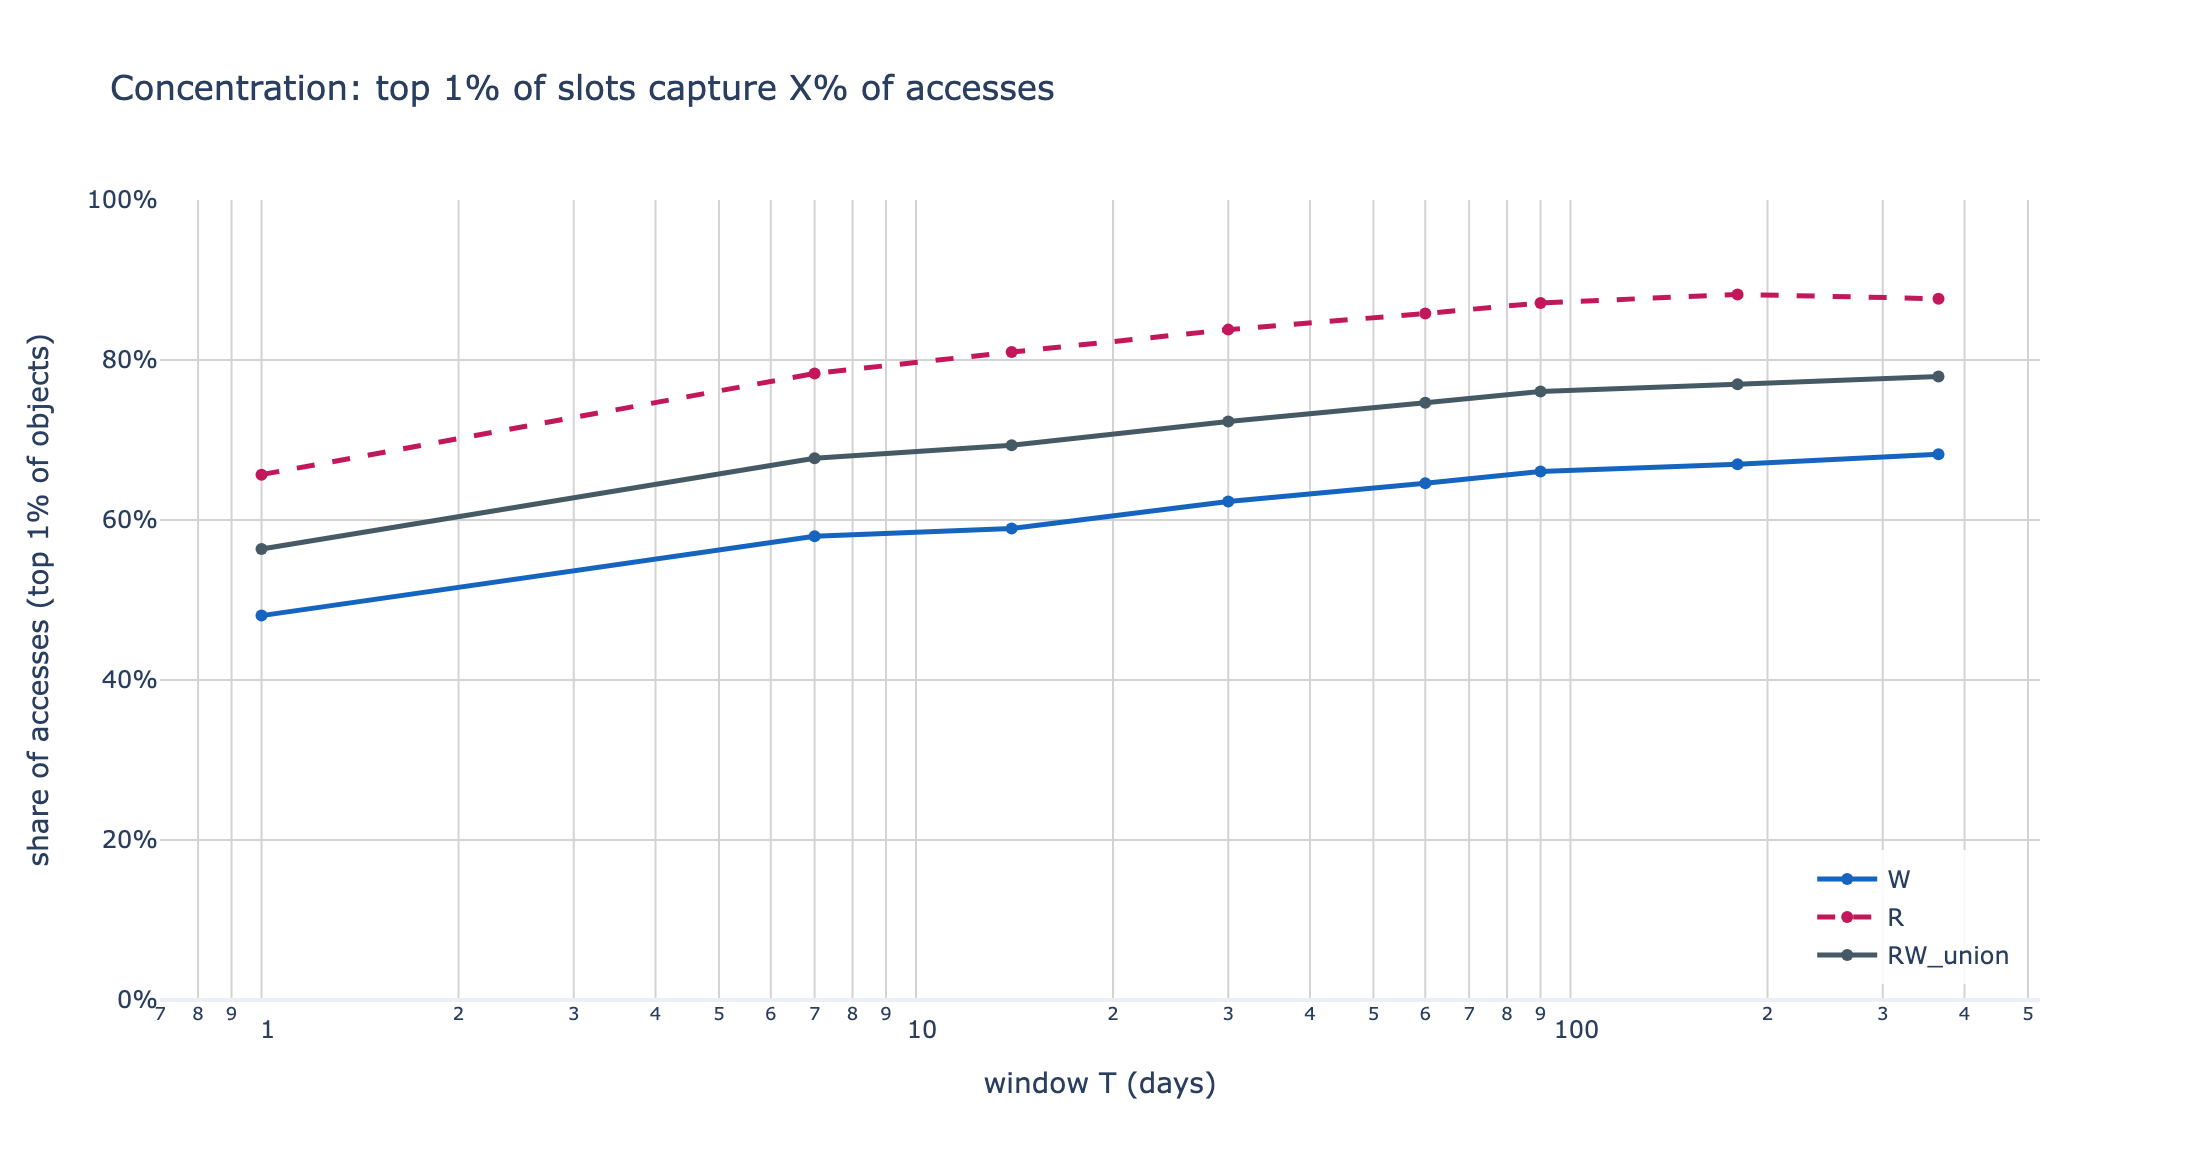
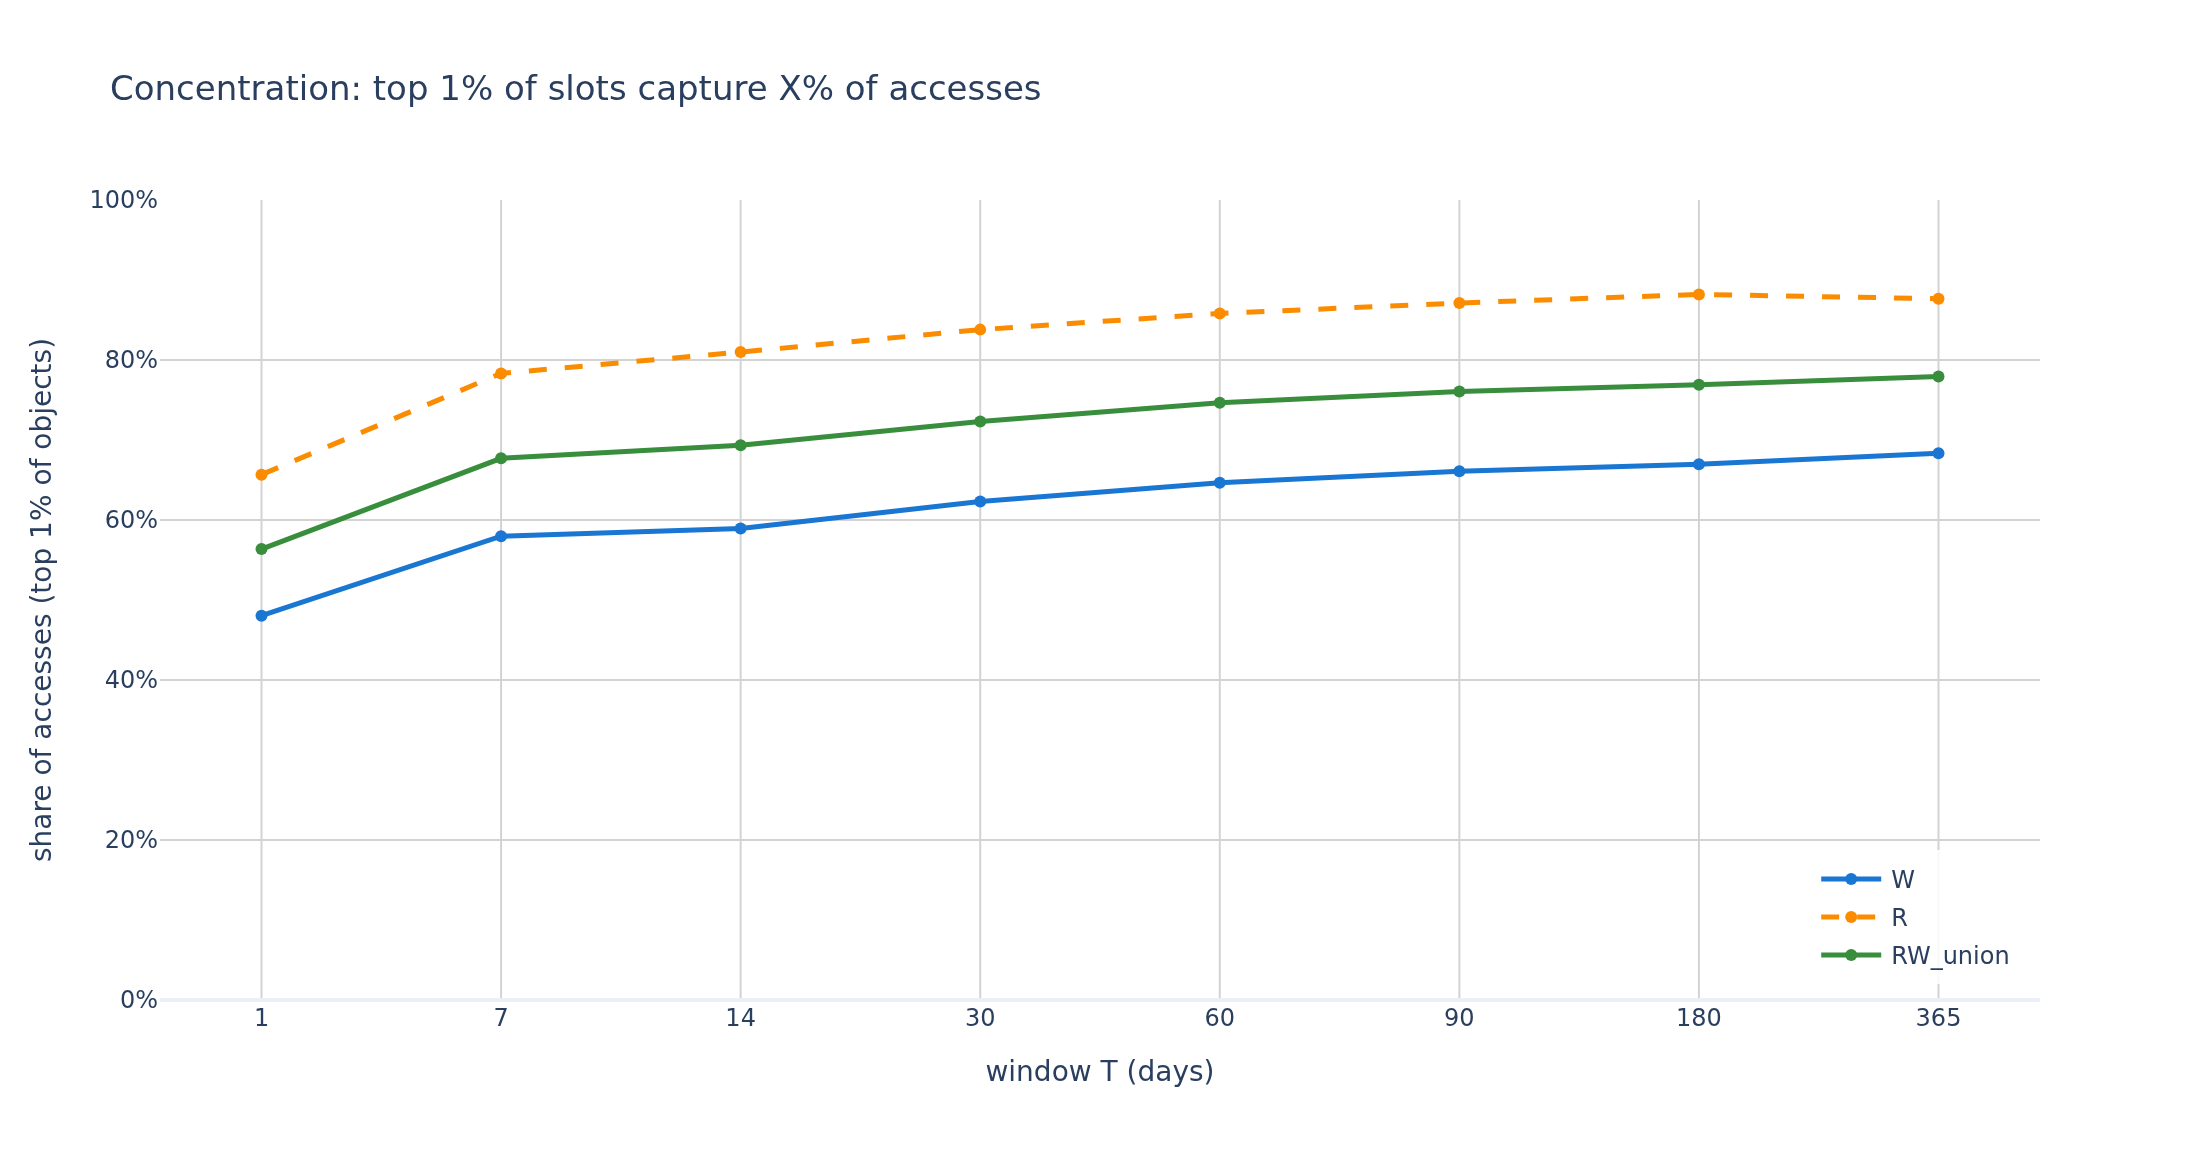
state_access v2: concentration charts to top-1% only, shared palette, split over-time by object
Drop top-10% (generation, embeds, PNGs, appendix). q3 latest-anchor charts use a category
x-axis (was log) and the shared blue/orange/green W/R/RW palette. Over-time concentration
is now a 4-panel-per-window chart with slots vs accounts in the report's object colors.

diff --git a/state_access/analysis_v2_sweep.py b/state_access/analysis_v2_sweep.py
@@ -243,6 +243,39 @@ def _warmth_metric_fig(df: pd.DataFrame, metric: str, title: str) -> go.Figure:
     return fig
 
 
+def _concentration_over_time_fig(df: pd.DataFrame) -> go.Figure:
+    """4-panel (one per window) top-1% read concentration over time, slots vs accounts."""
+    windows = sorted(df["window_days"].unique())
+    fig = make_subplots(
+        rows=2, cols=2, subplot_titles=[f"T = {t}d" for t in windows],
+        vertical_spacing=0.16, horizontal_spacing=0.07)
+    series = (("slots", "#1976D2", "conc_slot_top1_R"),
+              ("accounts", "#FB8C00", "conc_acct_top1_R"))
+    for i, t in enumerate(windows):
+        row, col = i // 2 + 1, i % 2 + 1
+        sub = df[df.window_days == t].sort_values("date")
+        for label, color, colname in series:
+            fig.add_trace(go.Scatter(
+                x=sub["date"], y=100 * sub[colname], name=label, legendgroup=label,
+                showlegend=(i == 0), mode="lines", line=dict(color=color, width=2)),
+                row=row, col=col)
+    for name, block in FORKS.items():
+        x = block_to_date(block).strftime("%Y-%m-%d")
+        fig.add_vline(x=x, line_dash="dot", line_color="#9E9E9E", row="all", col="all")
+        for row in (1, 2):
+            for col in (1, 2):
+                fig.add_annotation(x=x, y=1.0, yref="y domain", text=name, row=row,
+                                   col=col, showarrow=False, yanchor="bottom", yshift=3,
+                                   font=dict(size=8, color="#757575"))
+    fig.update_yaxes(ticksuffix="%", rangemode="tozero", showgrid=False)
+    fig.update_xaxes(showgrid=False)
+    fig.update_layout(
+        title="Top-1% share of read accesses over time — by window",
+        template="plotly_white", width=1200, height=860,
+        legend=dict(orientation="h", y=-0.08, x=0.5, xanchor="center"))
+    return fig
+
+
 def render_all(df: pd.DataFrame) -> None:
     charts: list[tuple[str, go.Figure]] = []
 
@@ -259,12 +292,7 @@ def render_all(df: pd.DataFrame) -> None:
         df, READ_CLASSES, "slot_R",
         "Slot read composition over time — % of |R|, by window")))
 
-    fig = _base_fig("Concentration over time — top-1% share of accesses",
-                    "share of accesses")
-    _add_window_traces(fig, df, lambda s: 100 * s.conc_slot_top1_R, "slot R")
-    _add_window_traces(fig, df, lambda s: 100 * s.conc_acct_top1_R, "acct R",
-                       dash="dash")
-    charts.append(("sweep_concentration.png", fig))
+    charts.append(("sweep_concentration.png", _concentration_over_time_fig(df)))
 
     fig = _base_fig("Warm-update coverage over time (§7)", "% of update events warm")
     _add_window_traces(fig, df, lambda s: s.upd_pct_warm, "warm")

diff --git a/state_access/analysis_v2.py b/state_access/analysis_v2.py
@@ -59,9 +59,9 @@ def _load_totals() -> dict[str, int]:
 # misleading near-zero W-only slice.
 ACCESS_TYPES = ["W", "R", "RW_union"]
 ACCESS_COLORS = {
-    "W":         "#1565C0",  # original "warm"
-    "R":         "#C2185B",  # what reads add (= old R-only)
-    "RW_union":  "#455A64",  # total warm set
+    "W":         "#1976D2",  # blue (shared report palette)
+    "R":         "#FB8C00",  # orange
+    "RW_union":  "#388E3C",  # green
 }
 ACCESS_DASH = {
     "W":         "solid",
@@ -286,7 +286,7 @@ def _plot_concentration(q3: pd.DataFrame, object_type: str, which: Literal["top_
     label = "top 1%" if which == "top_1pct_share" else "top 10%"
     fig.update_layout(
         title=f"Concentration: {label} of {object_type}s capture X% of accesses",
-        xaxis=dict(title="window T (days)", type="log", gridcolor="lightgray"),
+        xaxis=dict(title="window T (days)", type="category", gridcolor="lightgray"),
         yaxis=dict(title=f"share of accesses ({label} of objects)", ticksuffix="%",
                    gridcolor="lightgray", range=[0, 100]),
         template="plotly_white", width=1100, height=580,
@@ -693,10 +693,6 @@ def run_one(object_type: str, totals: dict[str, int]) -> None:
     fig3a = _plot_concentration(q3, object_type, "top_1pct_share")
     fig3a.write_image(DATA_DIR_V2 / f"q3_concentration_top1_{object_type}.png", scale=2)
     _show(fig3a)
-
-    fig3b = _plot_concentration(q3, object_type, "top_10pct_share")
-    fig3b.write_image(DATA_DIR_V2 / f"q3_concentration_top10_{object_type}.png", scale=2)
-    _show(fig3b)
 
 
 def run_combined(totals: dict[str, int]) -> None:

diff --git a/state_access/REPORT_v2.md b/state_access/REPORT_v2.md
@@ -277,7 +277,7 @@ probes are excluded from the warm set.
 | 365 | 23.99% | 1.04% | 25.03% |
 
 The warm set grows with T at every window, since a longer window captures more state. The
-populated read set stays a tinys fraction of the write set throughout.
+populated read set stays a tiny fraction of the write set throughout.
 
 #### Warmth over time
 
@@ -297,9 +297,8 @@ gradually, more on the account side than the slot side.
 
 ### 5.2 Concentration
 
-For each access set and window, the share of accesses captured by the top 1% objects.
-
-TODO: only look at top 1%, discard top 10% else where in the report. Also the graph is weird with vertical lines at different places. Just use a normal x-axis. Make sure the colors for the lines are consistent with the rest of the report. The graphs in the entire report should use the same color palette.  
+For each access set and window, the share of accesses captured by the top 1% of objects.
+Accesses are per-(tx, object) events (§3).
 
 ![Concentration top-1%, slots](data/v2/q3_concentration_top1_slot.png)
 ![Concentration top-1%, accounts](data/v2/q3_concentration_top1_account.png)
@@ -336,8 +335,6 @@ captures 96% of accesses against 84% for slots. Account reads land on a tiny set
 contracts, while slot reads spread across many contracts' storage.
 
 #### Concentration over time
-
-TODO: split slot and account. Fix the color.
 
 ![Concentration over time, top-1% share](data/v2/sweep_concentration.png)
 
@@ -936,13 +933,13 @@ state_access/data/v2/
   slot_first_op.png                                  # §6.2 slot first-op stacked bar
   account_first_op.png                               # §6.2 account first-op stacked bar
   account_r_empty_split.png                          # §6.2 R-only empty vs non-empty
-  q3_concentration_{top1,top10}_{slot,account}.png
+  q3_concentration_top1_{slot,account}.png
   history_event_totals.parquet                       # full-history per-chunk event counts
   history_event_totals_summary.parquet               # per-(kind, metric) totals + era split
   history_event_totals_{writes,reads}.png            # full-history event-mix stacked bars
   sweep_w{30,90,180,365}.parquet                     # Part III: one wide row per anchor
   sweep_summary.parquet                              # Part III: all windows pooled (long)
-  sweep_warmth_{slot,acct,combined}.png              # §5.1 warmth over time
+  sweep_warmth_{W,Rp,RpW}.png                        # §5.1 warmth over time (W / R⁺ / W+R⁺)
   sweep_write_composition.png                        # §4.1 write lifecycle composition over time
   sweep_read_composition.png                         # §4.2 read composition over time
   sweep_concentration.png                            # §5.2 concentration over time
